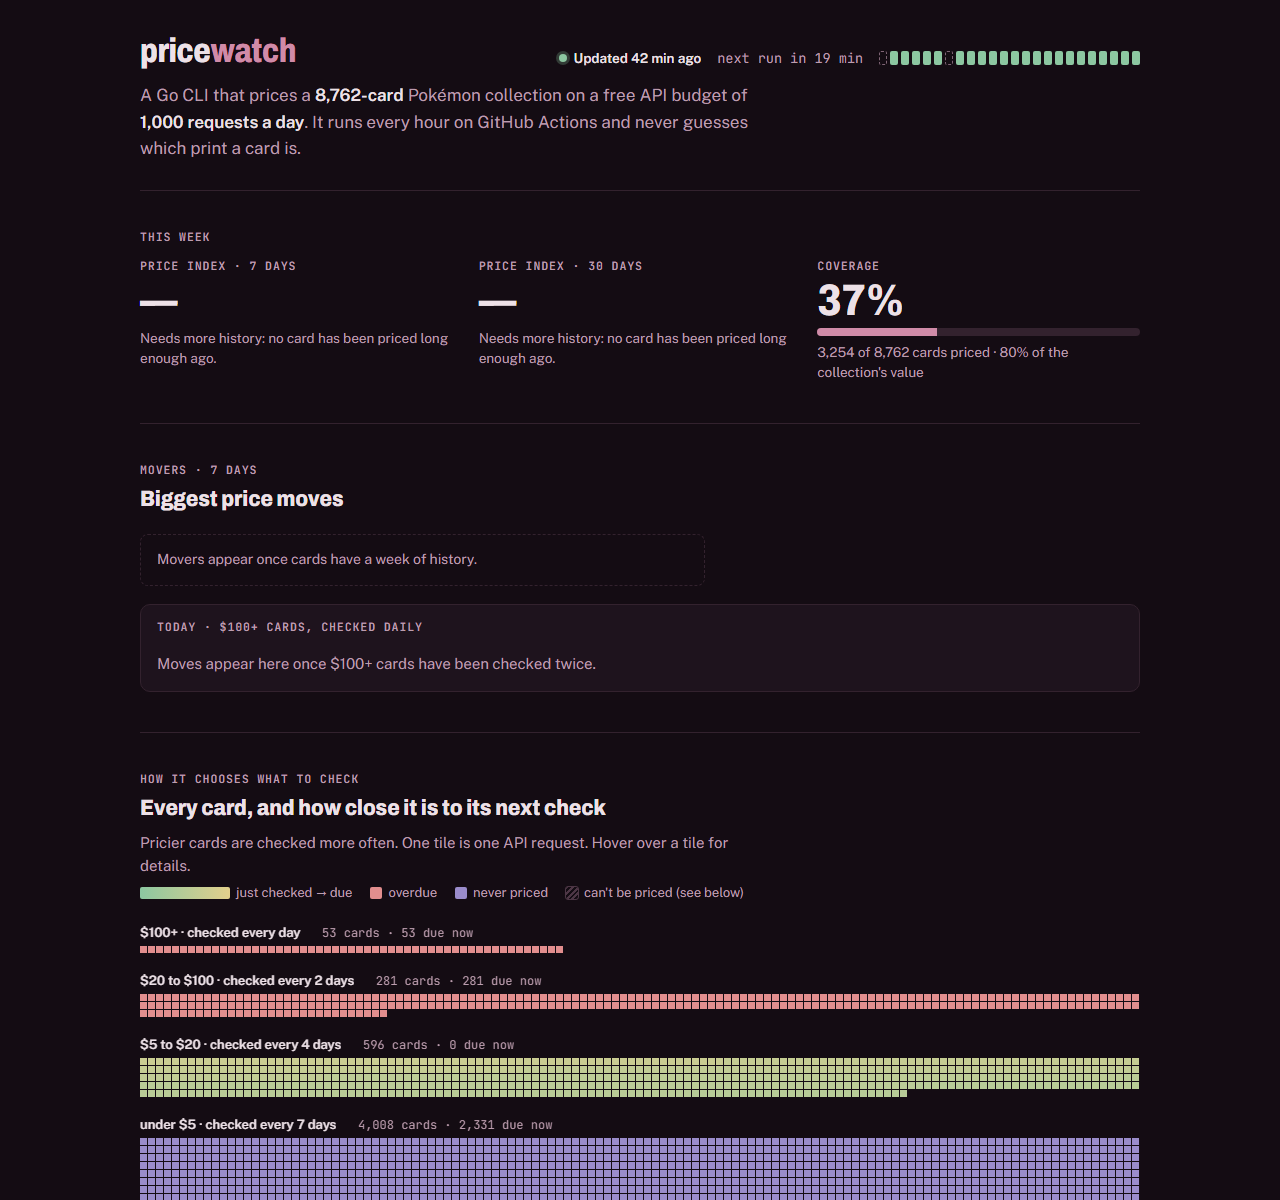
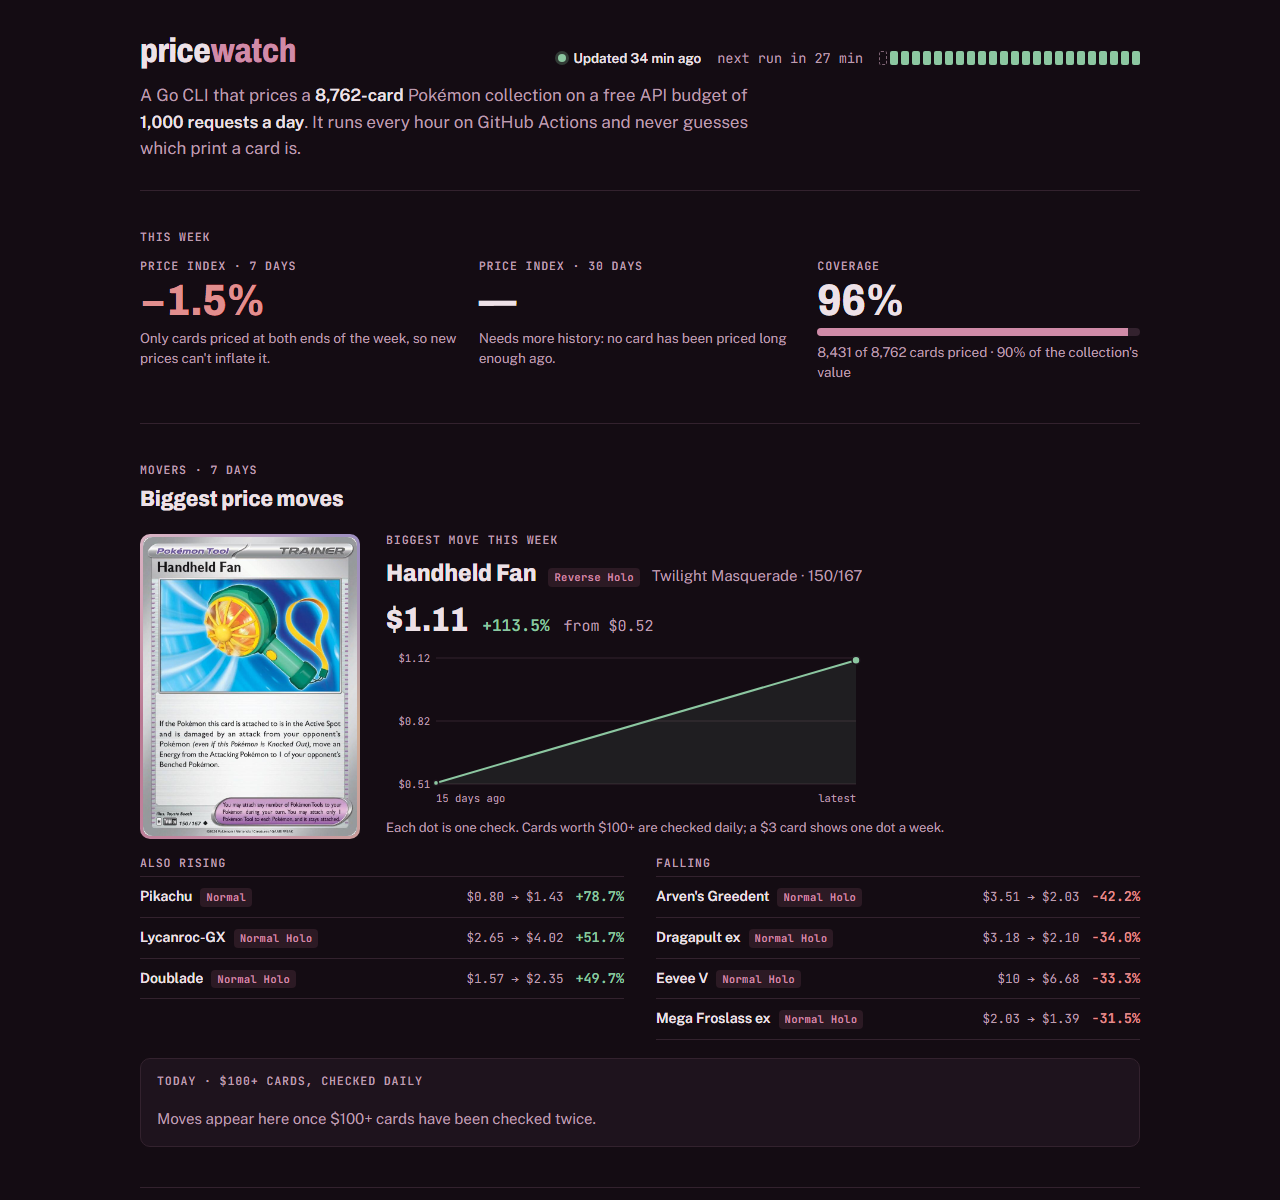
Refresh the pricewatch status page screenshot
Two weeks of prices now show the price index, 96% coverage and the
week's biggest movers. The alt text describes what the frame shows.

Claude-Session: https://claude.ai/code/session_01VPGXAzoD88CbkxKn1a11sd

diff --git a/src/app/work/pricewatch/page.tsx b/src/app/work/pricewatch/page.tsx
@@ -351,7 +351,7 @@ export default function PricewatchCaseStudy() {
             <div className="mt-10">
               <CaseStudyMedia
                 src={statusPage}
-                alt="The live pricewatch status page: price index, biggest movers, the schedule of every card and the request budget."
+                alt="The live pricewatch status page: price index, coverage and the week's biggest price moves."
                 title="pricewatch status page"
                 caption="Rebuilt from the database after every hourly run"
                 context="Live status page"

diff --git a/src/data/projects.ts b/src/data/projects.ts
@@ -180,7 +180,7 @@ export const pricewatchProject: Project = {
   caseStudyUrl: "/work/pricewatch",
   media: {
     src: pricewatchStatusPage,
-    alt: "The pricewatch status page showing the price index, the biggest movers and the schedule of every card.",
+    alt: "The pricewatch status page showing the price index, coverage and the week's biggest price moves.",
     title: "pricewatch status page",
     caption: "Live status page · Rebuilt every hour",
     objectClassName: "object-cover object-top",
